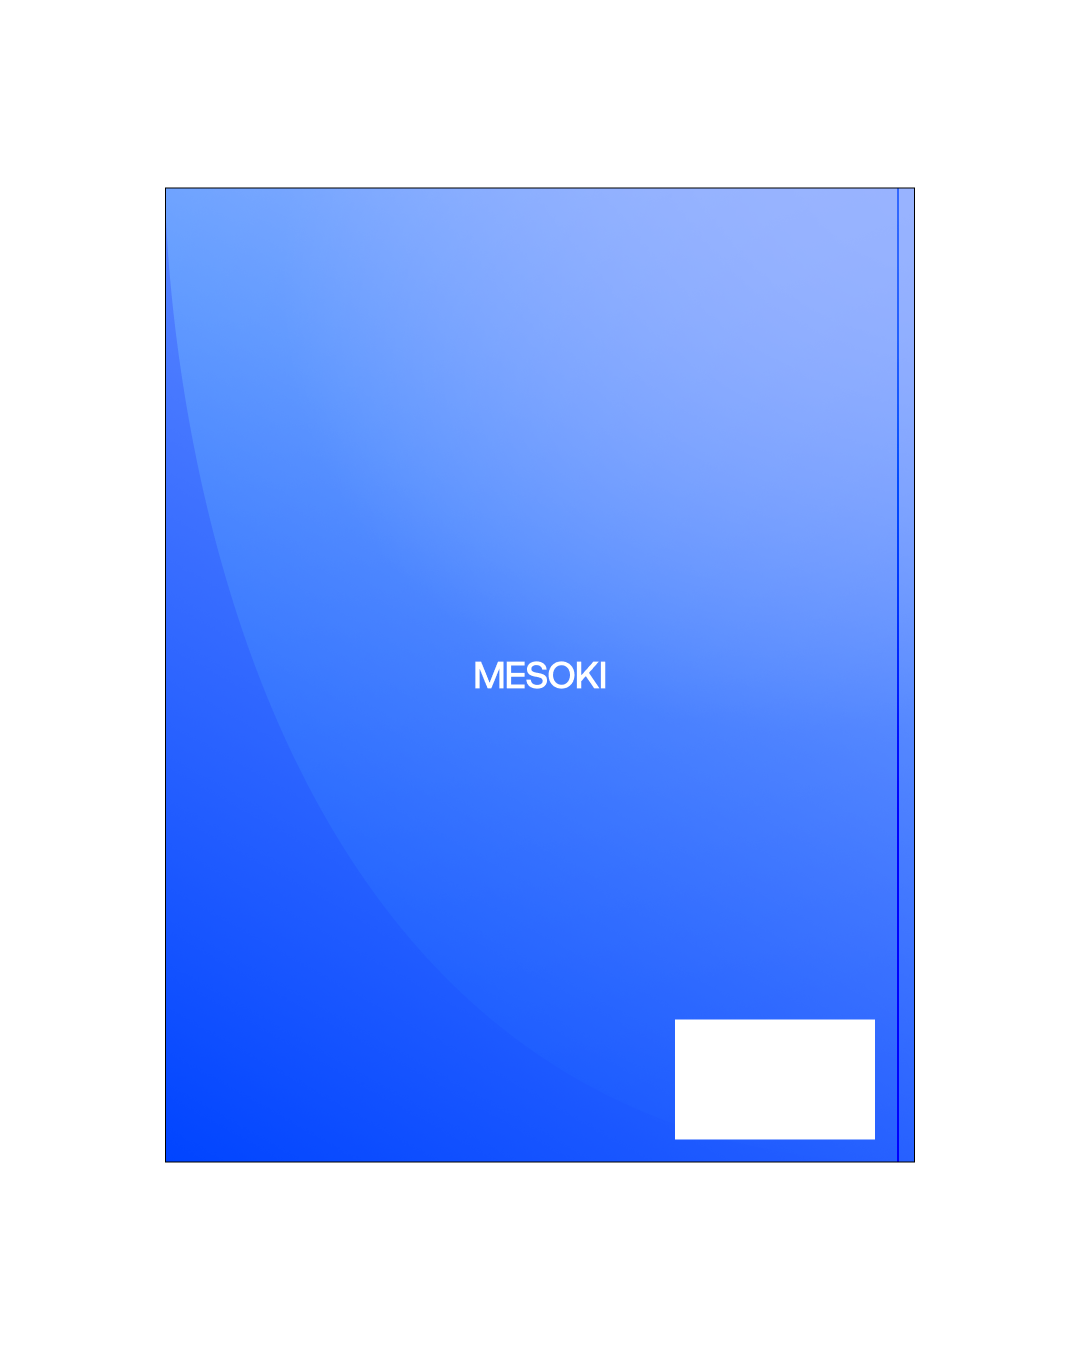
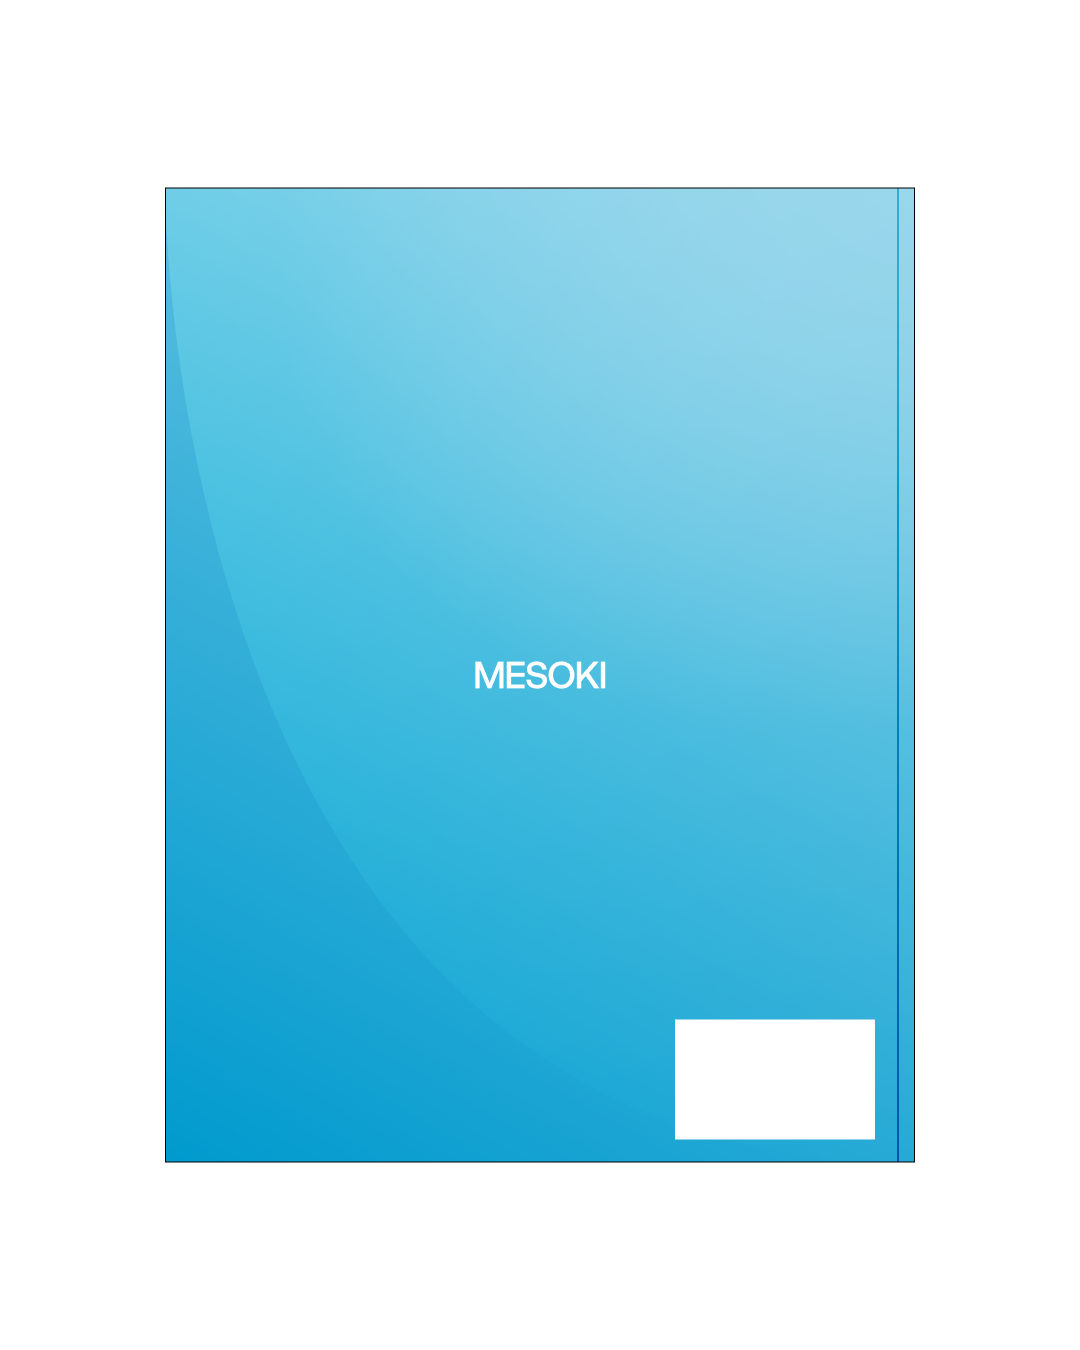
upd colors

diff --git a/css/style.css b/css/style.css
@@ -244,10 +244,10 @@
     --color-black: #000;
     --color-white: #fff;
     --color-brand-yellow: #FEDD00;
-    --color-brand-blue: #0044FF;
+    --color-brand-blue: #009ACE;
     --color-brand-orange: #FF6A00;
-    --color-brand-green: #17E500;
-    --color-brand-red: #FF0026;
+    --color-brand-green: #00B140;
+    --color-brand-red: #E4002B;
     --color-brand-purple: #A000FF;
     --color-brand-pink: #FF00A0;
     --background_primary: var(--color-white);
